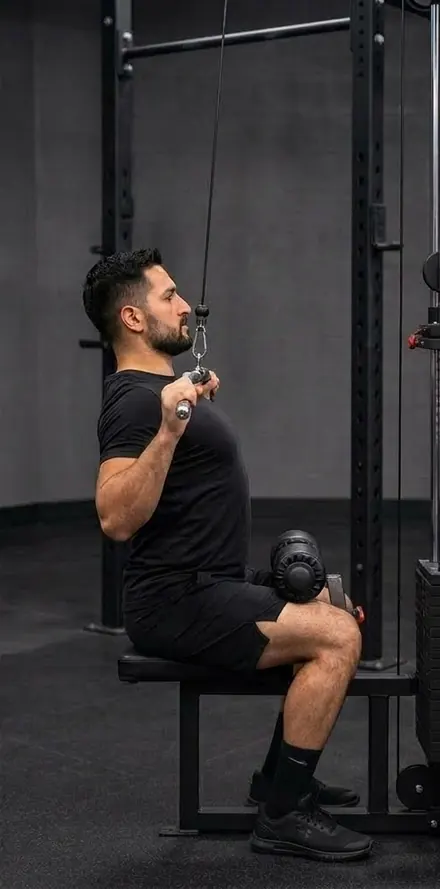
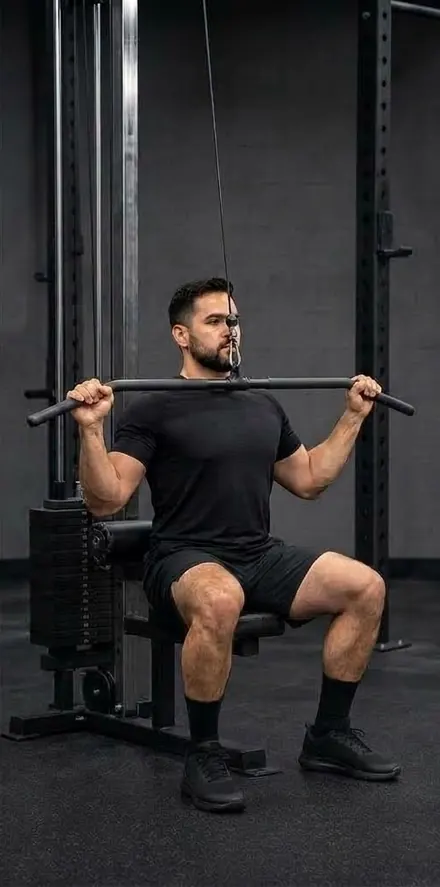
Photo demos: Arnold Press, Bench Press, and a wide-bar Lat Pulldown
Arnold Press and Bench Press get start/end photos with form cues in
English and Spanish. Lat Pulldown is replaced by a version with the
usual long bar and wide grip. Eight exercises now have photos.

Claude-Session: https://claude.ai/code/session_01Cyijzz1qxiymMyLUi3SgSc

diff --git a/www/index.html b/www/index.html
@@ -10059,6 +10059,12 @@ const DEMO_PHOTOS = new Map([
   ['Lateral Raise', {ratio: 620/460, focus: '50% 30%', cues: {
     en: ['A slight bend in the elbows', 'Raise out to the sides to shoulder height', 'Lead with your elbows, shoulders down', 'Lower slowly, no swinging'],
     es: ['Codos ligeramente flexionados', 'Sube hacia los lados hasta la altura de los hombros', 'Guía con los codos, hombros abajo', 'Baja despacio, sin balancearte']}}],
+  ['Arnold Press', {ratio: 440/889, focus: '50% 25%', cues: {
+    en: ['Start with the dumbbells at chin height, palms facing you', 'Turn your palms forward as you press up', 'Finish with your arms straight overhead', 'Reverse the turn on the way down'],
+    es: ['Empieza con las mancuernas a la altura de la barbilla, palmas hacia ti', 'Gira las palmas hacia delante mientras empujas', 'Termina con los brazos estirados sobre la cabeza', 'Invierte el giro al bajar']}}],
+  ['Bench Press', {ratio: 720/357, focus: '62% 45%', cues: {
+    en: ['Eyes under the bar, feet flat, shoulder blades squeezed', 'Lower the bar to the middle of your chest', 'Elbows about 45° from your body', 'Press back up until your arms are straight'],
+    es: ['Ojos bajo la barra, pies firmes, omóplatos juntos', 'Baja la barra al centro del pecho', 'Codos a unos 45° del cuerpo', 'Empuja hasta estirar los brazos']}}],
   ['Dumbbell Shoulder Press', {ratio: 440/889, focus: '50% 25%', cues: {
     en: ['Dumbbells at shoulder height, palms forward', 'Brace your core, sit tall', 'Press straight up until your arms are straight', 'Lower with control back to your shoulders'],
     es: ['Mancuernas a la altura de los hombros, palmas al frente', 'Abdomen firme, espalda recta', 'Empuja hacia arriba hasta estirar los brazos', 'Baja con control hasta los hombros']}}],
